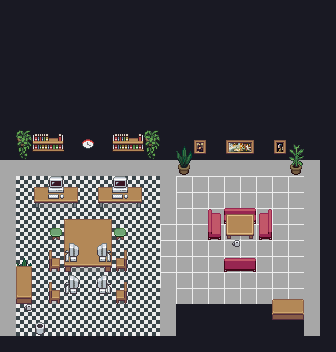
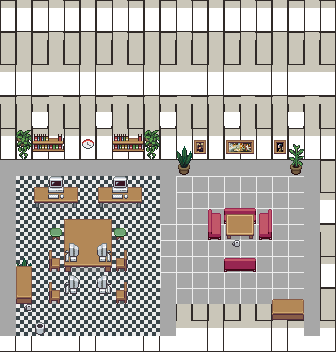
fix: render walls on map background and adjust agent spawn rows

diff --git a/frontend/src/App.jsx b/frontend/src/App.jsx
@@ -68,73 +68,73 @@ function getWalkStyle(charFile) {
 const AGENTS = [
   {
     id: "analyst",        name: "Analyst",     label: "@analyst",  role: "Business & ROI",
-    col: 13, row: 14, charFile: "char_0", color: "#f77f00", // Lounge room
+    col: 14, row: 17, charFile: "char_0", color: "#f77f00", // Lounge room
     bubbles: ["🔍 Analisando ROI...", "📊 Mapeando dores...", "💡 Insights!"],
     dialogTexts: ["Iniciando análise de ROI do projeto...", "Mapeando dores do usuário...", "Relatório de viabilidade concluído!"],
   },
   {
     id: "pm",             name: "PM",          label: "@pm",       role: "Backlog & PRD",
-    col: 16, row: 14, charFile: "char_1", color: "#fee440", // Lounge room
+    col: 17, row: 15, charFile: "char_1", color: "#fee440", // Lounge room
     bubbles: ["📝 PRD...", "✏️ Escrevendo...", "✅ Story!"],
     dialogTexts: ["Refinando backlog com base na análise...", "Escrevendo o PRD do produto...", "Backlog priorizado e documentado!"],
   },
   {
     id: "sm",             name: "Scrum",       label: "@sm",       role: "Sprints & Stories",
-    col: 14, row: 5, charFile: "char_2", color: "#00bbf9", // Breakroom
+    col: 14, row: 11, charFile: "char_2", color: "#00bbf9", // Breakroom
     bubbles: ["📋 Sprint...", "🗓️ Stories...", "✅ Planejado!"],
     dialogTexts: ["Quebrando PRD em stories atômicas...", "Estimando pontos do sprint...", "Sprint configurada no projeto!"],
   },
   {
     id: "architect",      name: "Architect",   label: "@arch",     role: "Tech Design",
-    col: 17, row: 5, charFile: "char_3", color: "#9b5de5", // Breakroom
+    col: 17, row: 11, charFile: "char_3", color: "#9b5de5", // Breakroom
     bubbles: ["📐 Arquitetura...", "🗺️ Mermaid...", "✅ ADR!"],
     dialogTexts: ["Propondo topologia técnica e padrões...", "Gerando diagrama C4 + Mermaid...", "ADR rascunhado para revisão!"],
   },
   {
     id: "ux-design-expert", name: "UX Expert", label: "@ux",      role: "Design System",
-    col: 3, row: 7, charFile: "char_4", color: "#ff0055", // Main office desk 1
+    col: 3, row: 12, charFile: "char_4", color: "#ff0055", // Main office desk 1
     bubbles: ["🎨 Design...", "🖌️ Wireframe...", "✅ Tokens!"],
     dialogTexts: ["Definindo tokens de design para o produto...", "Criando wireframes das telas principais...", "Design system e componentes entregues!"],
   },
   {
     id: "dev",            name: "Developer",   label: "@dev",      role: "Core Code",
-    col: 6, row: 7, charFile: "char_5", color: "#00ff66", // Main office desk 2
+    col: 7, row: 12, charFile: "char_5", color: "#00ff66", // Main office desk 2
     bubbles: ["💻 Codando...", "⌨️ Feature...", "✅ Build!"],
     dialogTexts: ["Executando subtask de implementação...", "Escrevendo código seguindo a spec...", "Feature implementada. Build verde!"],
   },
   {
     id: "prompt-engineer", name: "Prompt Eng.", label: "@prompt", role: "AI Guard",
-    col: 3, row: 11, charFile: "char_0", color: "#00f5d4", // Main office desk 3
+    col: 3, row: 15, charFile: "char_0", color: "#00f5d4", // Main office desk 3
     bubbles: ["🛡️ Prompts...", "🤖 Testing LLM...", "✅ Validado!"],
     dialogTexts: ["Revisando prompts LangGraph e RAG...", "Testando resistência a injection...", "Prompts calibrados e documentados!"],
   },
   {
     id: "security-auditor", name: "SecAudit",  label: "@sec",     role: "Security",
-    col: 6, row: 11, charFile: "char_1", color: "#d62828", // Main office desk 4
+    col: 7, row: 15, charFile: "char_1", color: "#d62828", // Main office desk 4
     bubbles: ["🔐 Auditando...", "🔎 CVEs...", "✅ Zero críticos!"],
     dialogTexts: ["Iniciando auditoria de segurança do código...", "Rodando Snyk scan e checando CVEs...", "Auditoria concluída. Zero itens críticos!"],
   },
   {
     id: "lint-and-validate", name: "Linter",   label: "@lint",    role: "Style & Lint",
-    col: 3, row: 15, charFile: "char_2", color: "#94a3b8", // Main office bottom
+    col: 3, row: 18, charFile: "char_2", color: "#94a3b8", // Main office bottom
     bubbles: ["🧹 Lint...", "✍️ Padrões...", "✅ Zero erros!"],
     dialogTexts: ["Executando ESLint e checagens de padrão...", "Corrigindo formatação e consistência...", "Código padronizado. Zero erros de lint!"],
   },
   {
     id: "doc-coauthoring", name: "DocWriter",  label: "@doc",     role: "Documentation",
-    col: 6, row: 15, charFile: "char_3", color: "#a2d2ff", // Main office bottom
+    col: 7, row: 18, charFile: "char_3", color: "#a2d2ff", // Main office bottom
     bubbles: ["📚 Docs...", "✏️ ADR...", "✅ Publicado!"],
     dialogTexts: ["Documentando enquanto o contexto está vivo...", "Gerando ADR da decisão arquitetural...", "Documentação estruturada e commitada!"],
   },
   {
     id: "qa",             name: "QA Tester",   label: "@qa",      role: "Tests E2E",
-    col: 8, row: 13, charFile: "char_4", color: "#e2e8f0", // Main office middle
+    col: 9, row: 14, charFile: "char_4", color: "#e2e8f0", // Main office middle
     bubbles: ["🧪 Testing...", "🐛 Bug found!", "✅ Spec ok!"],
     dialogTexts: ["Revisando spec vs implementação...", "Rodando testes unitários e E2E...", "Build aprovado. Spec 100% coberta!"],
   },
   {
     id: "devops",         name: "DevOps",      label: "@devops",  role: "CI/CD & Push",
-    col: 8, row: 9, charFile: "char_5", color: "#ffb703", // Main office middle
+    col: 9, row: 16, charFile: "char_5", color: "#ffb703", // Main office middle
     bubbles: ["🚀 Deploying...", "⚙️ CI/CD...", "✅ Push!"],
     dialogTexts: ["Configurando pipeline de CI/CD...", "Executando git push para produção...", "Deploy concluído com sucesso! 🎉"],
   },